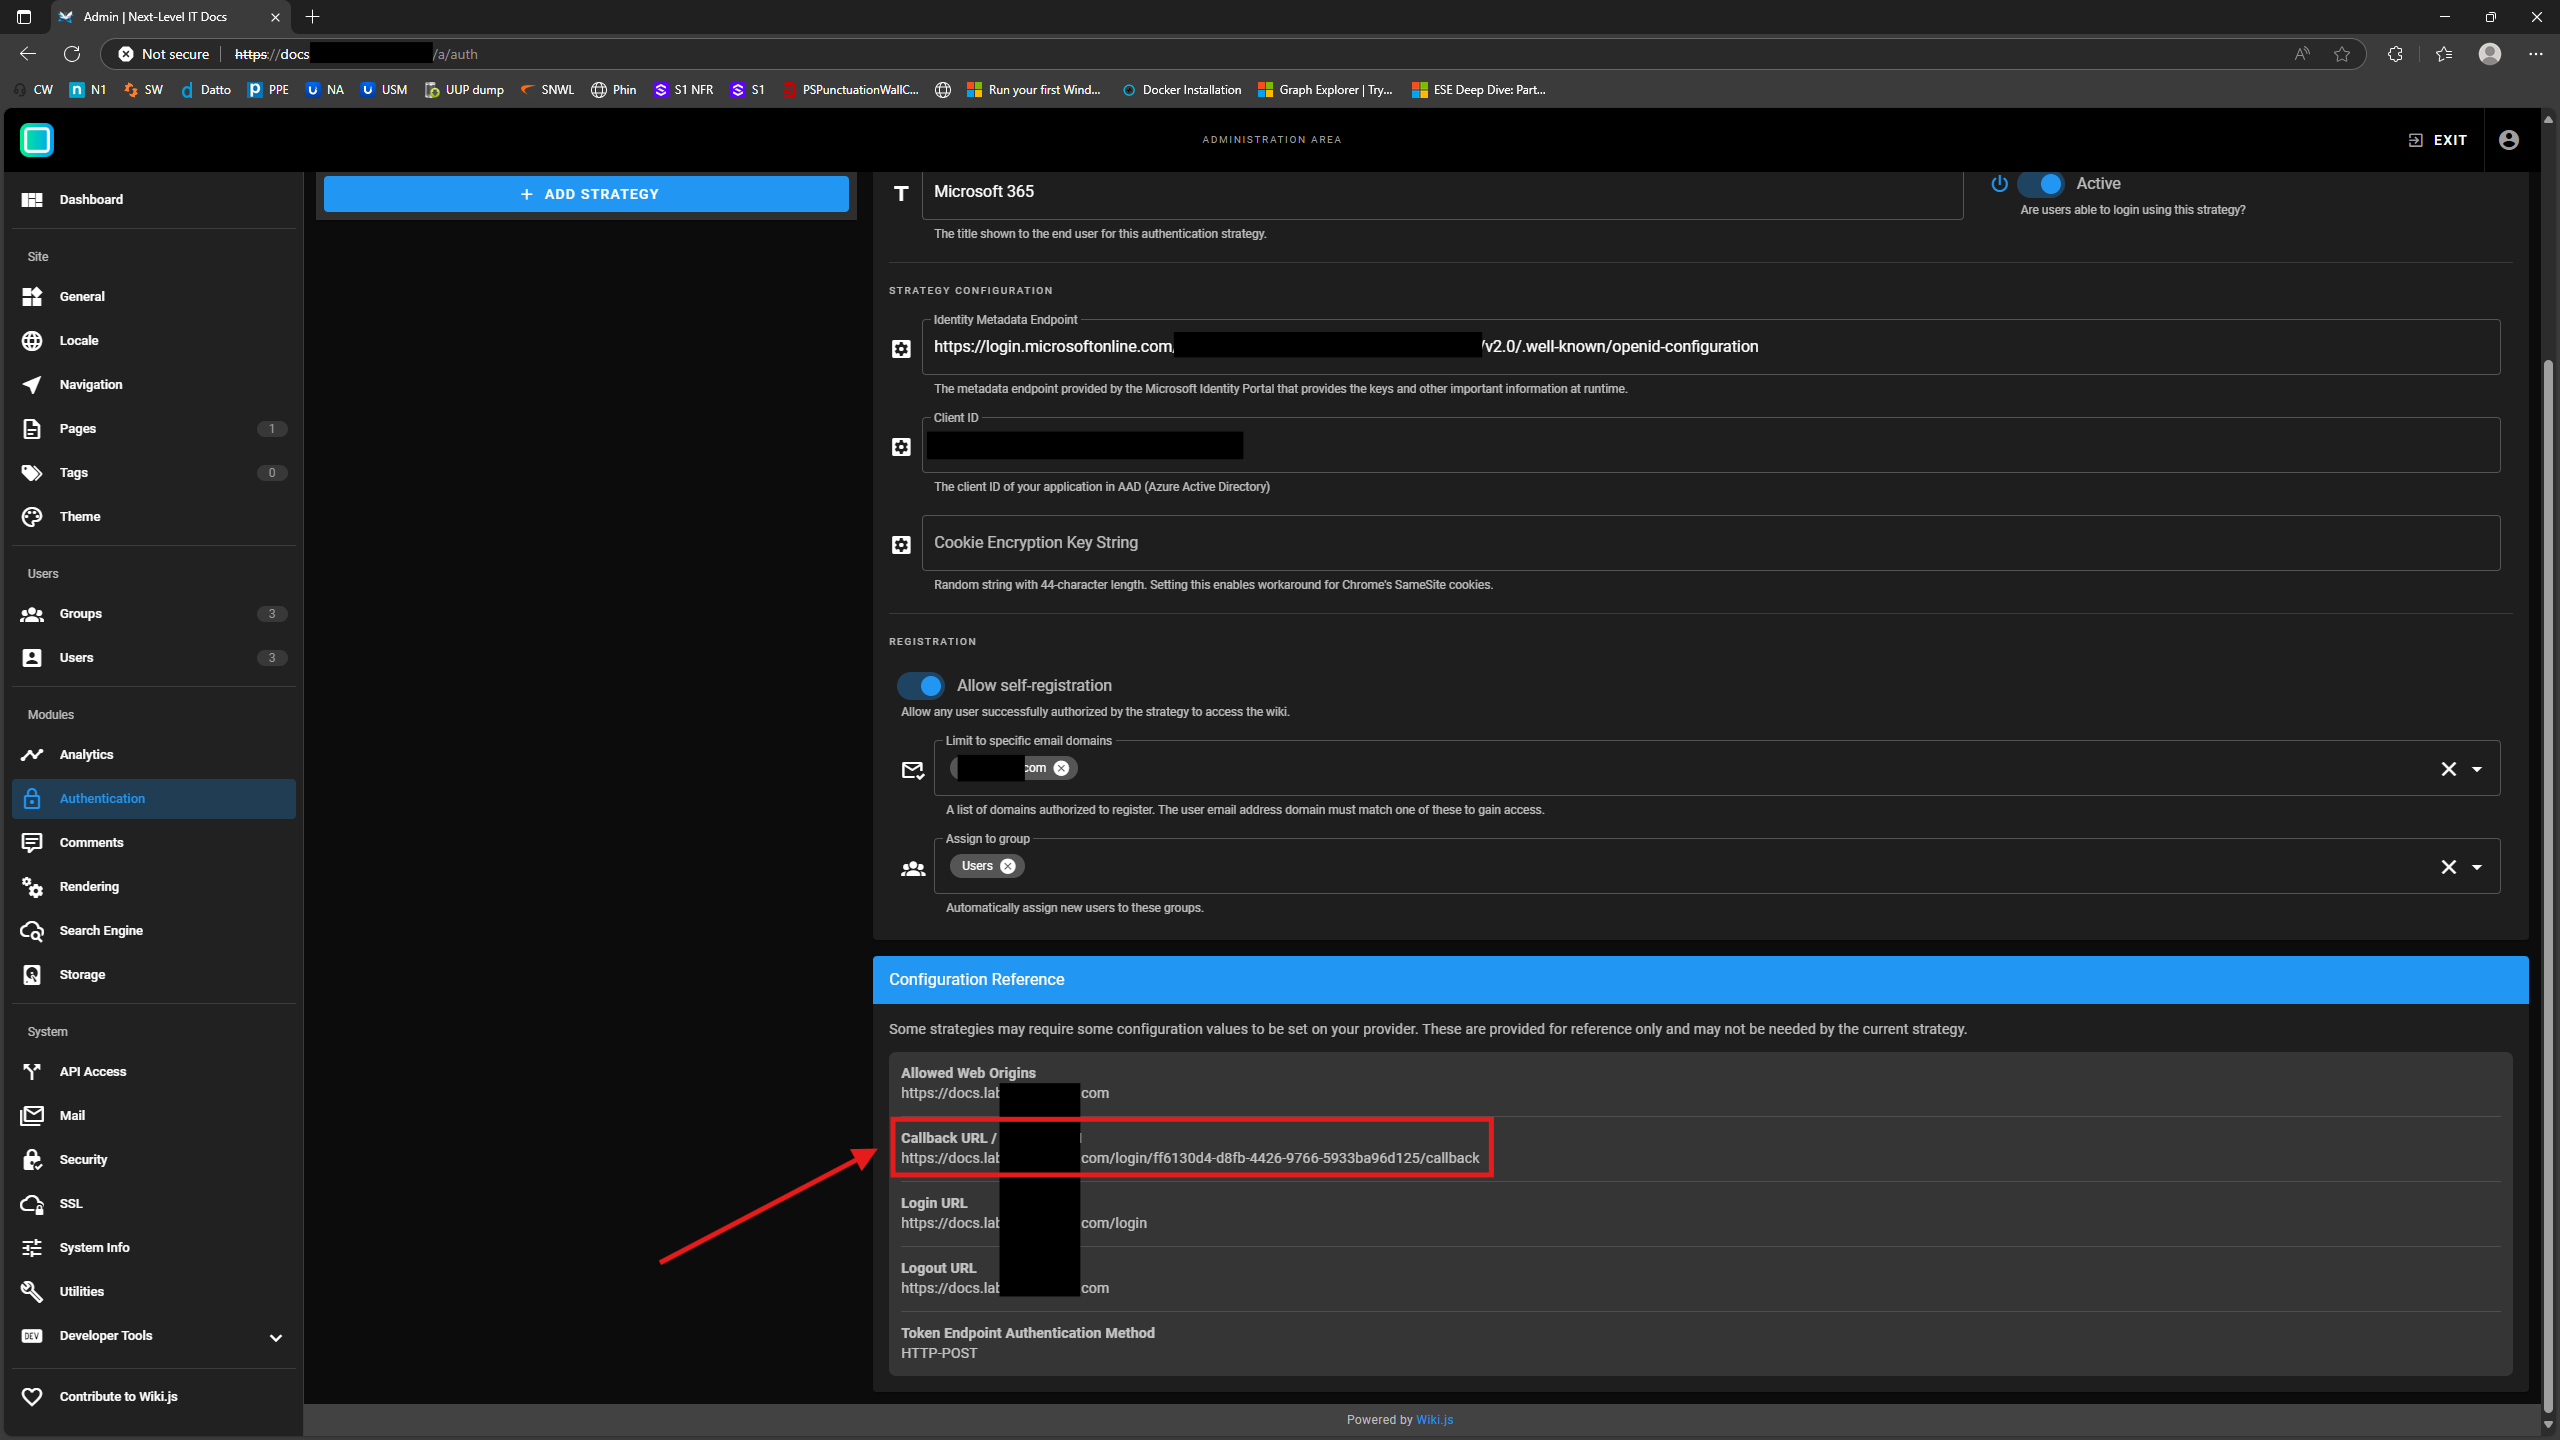
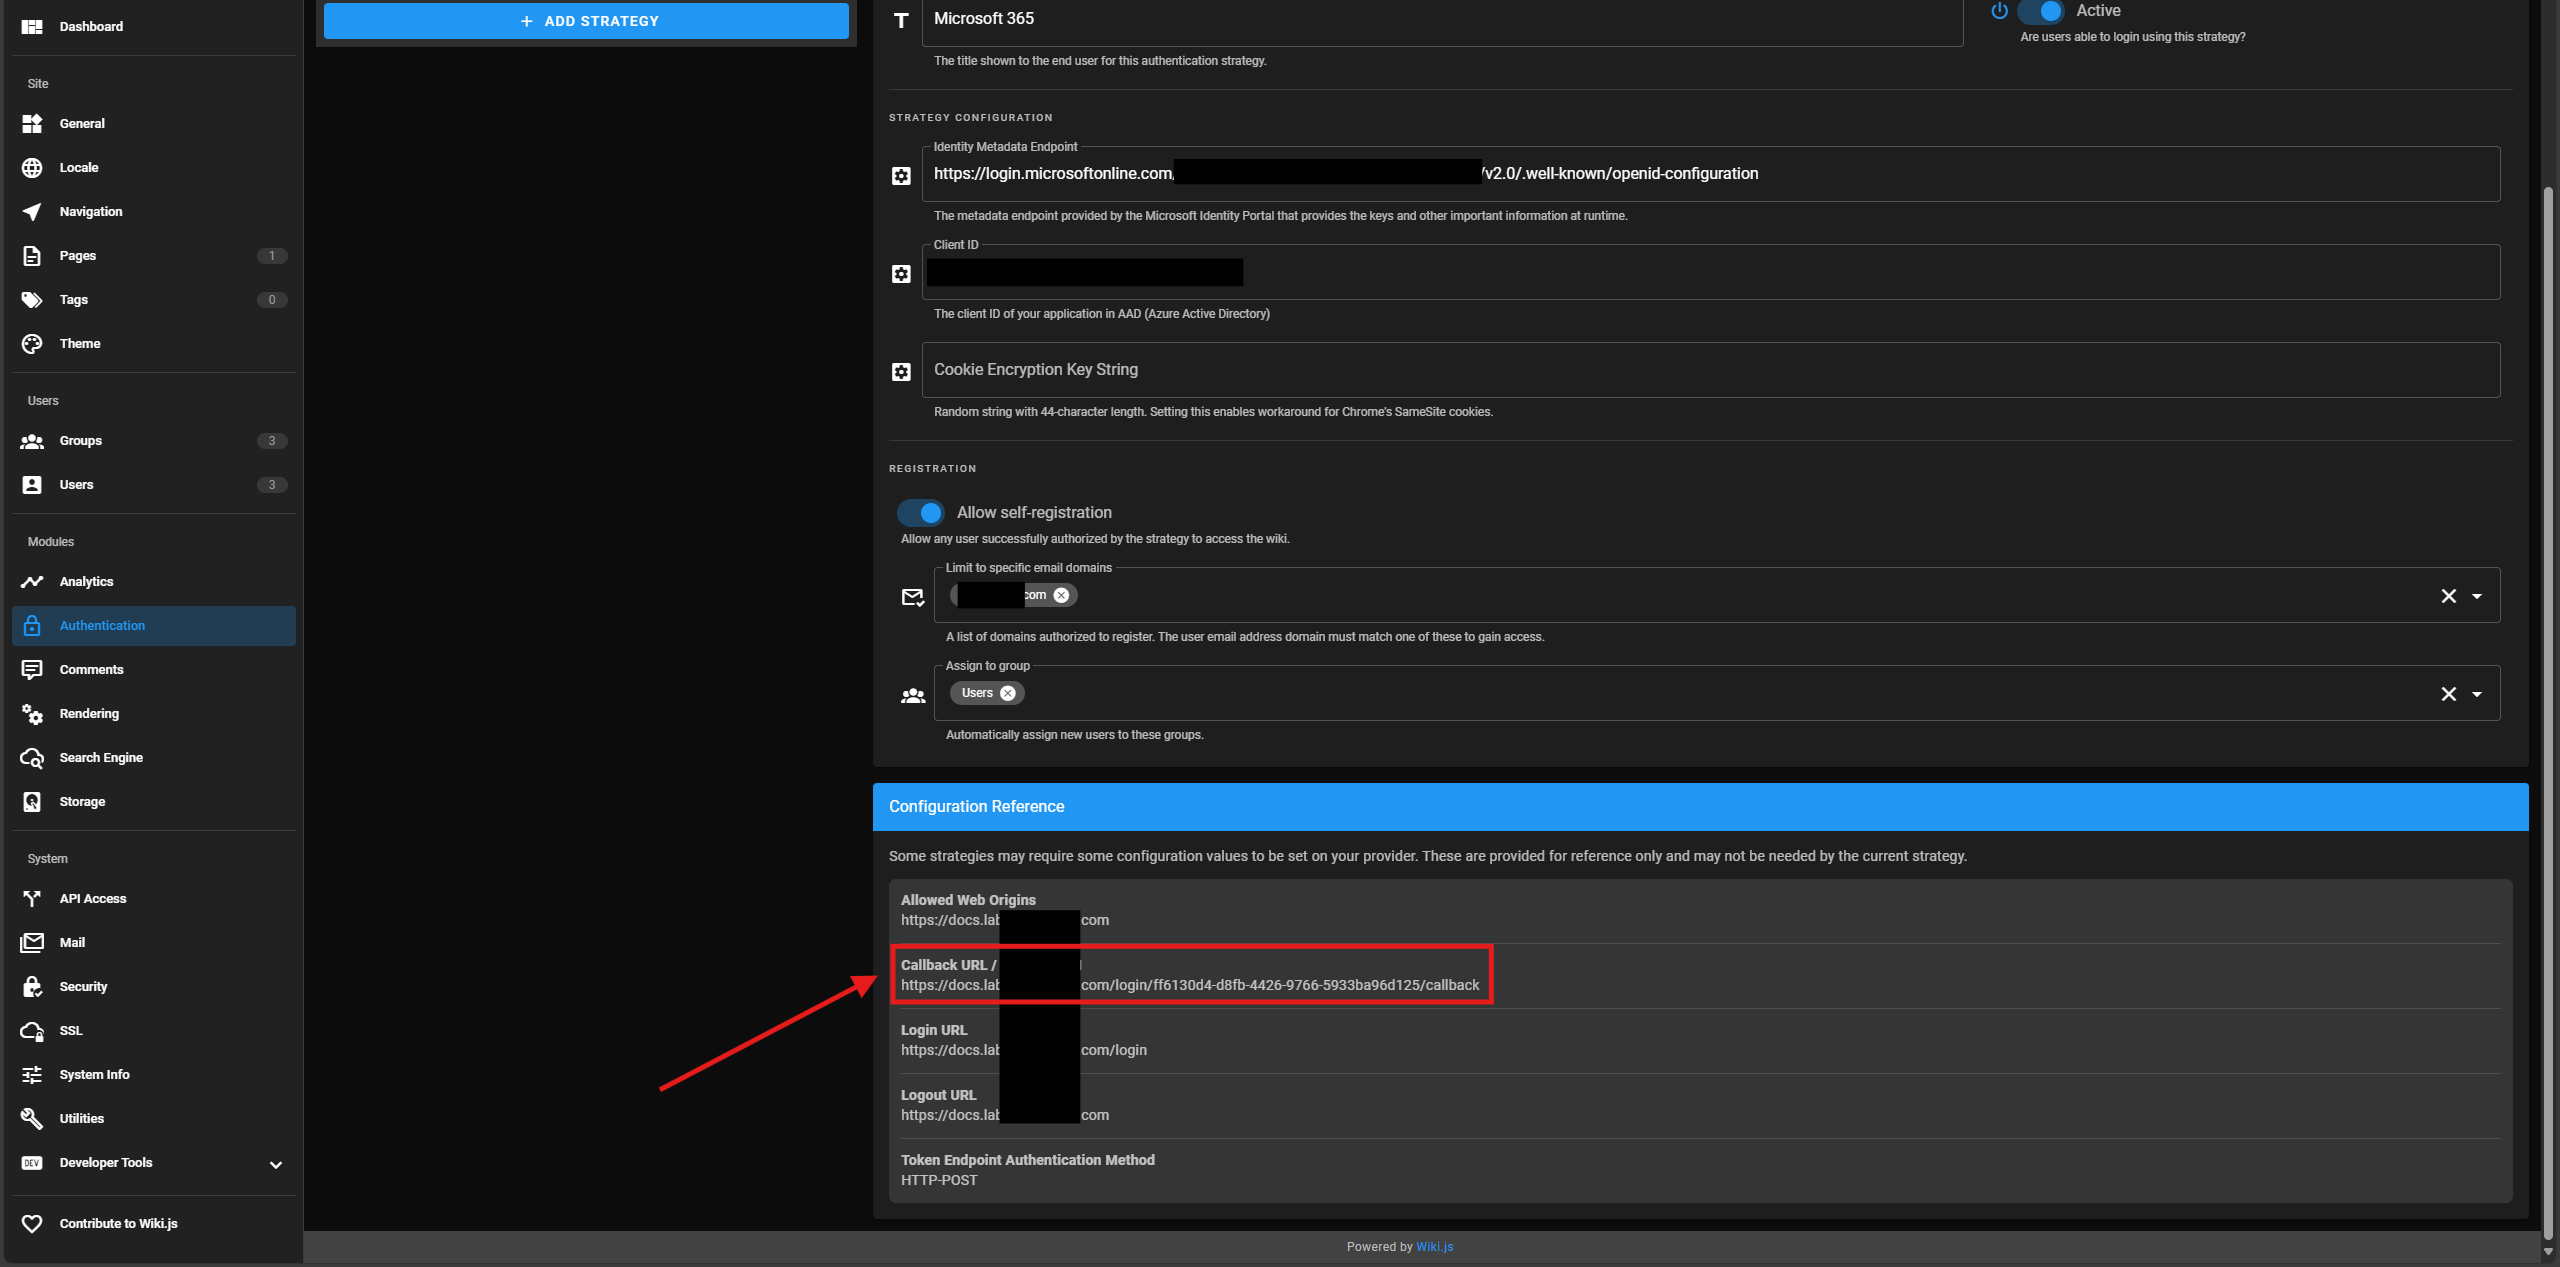
fix typos and crop image

Changed region(s): [[0.0, 0.0, 1.0, 1.0], [0.9688, 0.1539, 1.0, 0.2463], [0.9375, 0.5233, 0.9688, 0.5541]]

diff --git a/content/posts/2025/6-Jun/14-spotify-duplicate-artist-names/index.md b/content/posts/2025/6-Jun/14-spotify-duplicate-artist-names/index.md
@@ -8,7 +8,7 @@ Spotify has a bug where it'll duplicate artist names if they're listed more than
 
 ![Screenshot of Spotify](images/1-dup-names.png)
 
-This has been a problem since at least 2022 - see [this Spotify Community post by yule from 2022-11-09](https://community.spotify.com/t5/Your-Library/If-a-local-file-is-FLAC-the-artist-name-repeats-with-a-semicolon/td-p/5455212), so I doubt it's going to get fixed. This bug doesn't occur with MP3s; only FLAC files.
+This has been a problem since at least 2022 - see [this Spotify Community post by yule from 2022-11-09](https://community.spotify.com/t5/Your-Library/If-a-local-file-is-FLAC-the-artist-name-repeats-with-a-semicolon/td-p/5455212) - so I doubt it's going to be fixed. This bug doesn't occur with MP3s; only FLAC files.
 
 To fix it, you can remove some of the 'artist' fields. To easily do this for a bunch of songs at once, you can use the MP3Tag program, which is freeware by Florian Heidenreich. You can find the project (and Windows binaries) at [mp3tag.de](https://www.mp3tag.de/en/). There's also a Winget package available:
 
